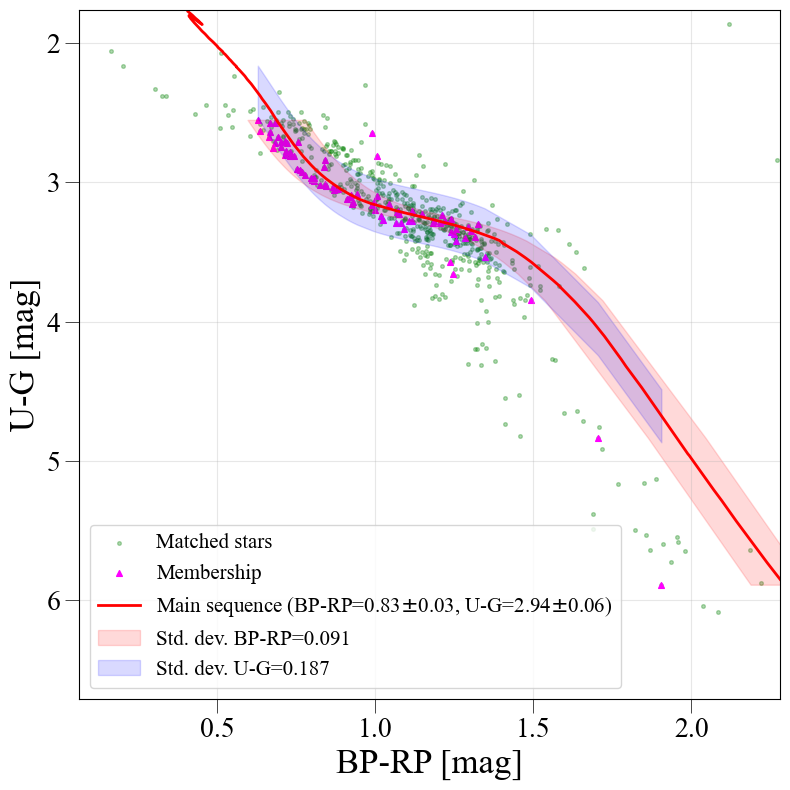
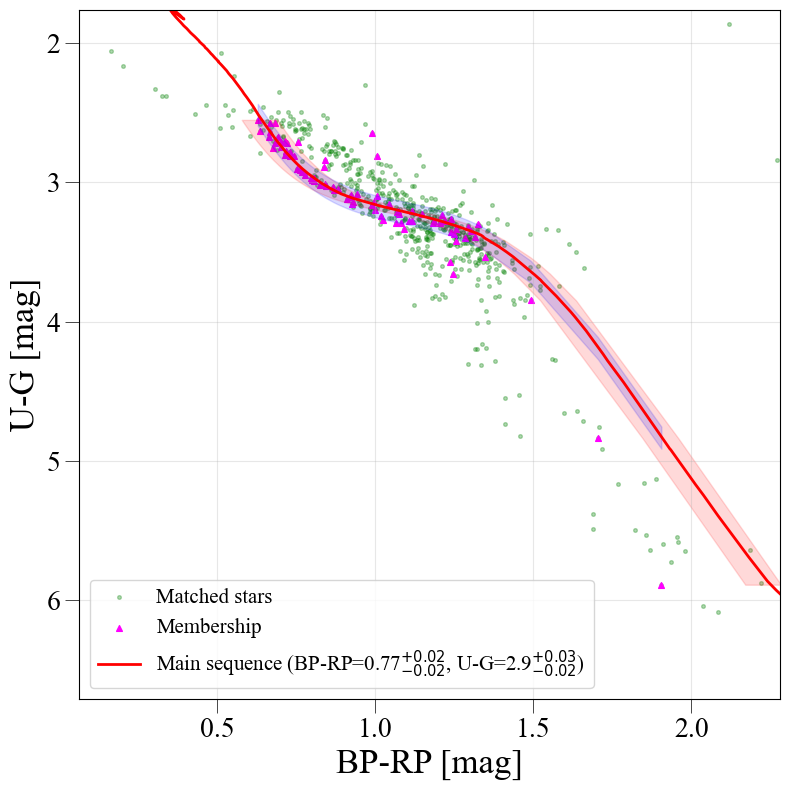
fixed error estimation

Changed region(s): [[0.2734, 0.0608, 1.0, 0.7595], [0.1215, 0.6684, 0.7899, 0.881], [0.2127, 0.0, 0.2734, 0.0608]]

diff --git a/process_data.py b/process_data.py
@@ -405,8 +405,16 @@ def plot_cc(gaia_matched, uv_matched, gaia_filtered, uv_filtered, ms, colour1, c
         poly_y = np.poly1d(coeffs_y)
         ms_fit_y = poly_y(gaia_filtered[colour1])
 
-        residuals_y = uv_filtered[colour2] - ms_fit_y
-        std_dev_y = np.std(residuals_y)
+        residuals_y = ms_fit_y - uv_filtered[colour2]
+        std_dev_y_up_list = []
+        std_dev_y_low_list = []
+        for i in range(residuals_y.size):
+            if residuals_y[i] > 0:
+                std_dev_y_low_list.append(residuals_y[i])
+            else:
+                std_dev_y_up_list.append(residuals_y[i])
+        std_dev_y_up = np.mean(np.abs(std_dev_y_up_list))
+        std_dev_y_low = np.mean(np.abs(std_dev_y_low_list))
 
         x_fitted = np.linspace(min(gaia_filtered[colour1]), max(gaia_filtered[colour1]), 1000)
         y_fitted_curve = np.polyval(coeffs_y, x_fitted)
@@ -415,19 +423,34 @@ def plot_cc(gaia_matched, uv_matched, gaia_filtered, uv_filtered, ms, colour1, c
         interp_func = interp1d(y_fitted_curve, x_fitted, bounds_error=False, fill_value="extrapolate")
         x_estimated = interp_func(uv_filtered[colour2])
 
-        residuals_x = gaia_filtered[colour1] - x_estimated
-        std_dev_x = np.std(residuals_x)
+        residuals_x = x_estimated - gaia_filtered[colour1]
+        std_dev_x_up_list = []
+        std_dev_x_low_list = []
+        for i in range(residuals_x.size):
+            if residuals_x[i] > 0:
+                std_dev_x_low_list.append(residuals_x[i])
+            else:
+                std_dev_x_up_list.append(residuals_x[i])
+        std_dev_x_up = np.mean(np.abs(std_dev_x_up_list))
+        std_dev_x_low = np.mean(np.abs(std_dev_x_low_list))
+
+        print(f"\nStandard deviation of x: {std_dev_x_up} {std_dev_x_low}")
+        print(f"Standard deviation of y: {std_dev_y_up} {std_dev_y_low}")
         
         t_coeff = t.ppf((1 + 0.9973)/2, len(gaia_filtered[colour1])-1)
-        s_x = std_dev_x/np.sqrt(len(gaia_filtered[colour1]))
-        s_y = std_dev_y/np.sqrt(len(uv_filtered[colour2]))
-        u_x = t_coeff*s_x
-        u_y = t_coeff*s_y
-        
-        print(f"\nStandard deviation of x: {std_dev_x}")
-        print(f"Standard deviation of y: {std_dev_y}")
-        print(f"\nUncertainty of x: {u_x}")
-        print(f"Uncertainty of y: {u_y}\n")
+
+        s_x_up = std_dev_x_up/np.sqrt(len(gaia_filtered[colour1]))
+        s_x_low = std_dev_x_low/np.sqrt(len(gaia_filtered[colour1]))
+        s_y_up = std_dev_y_up/np.sqrt(len(uv_filtered[colour2]))
+        s_y_low = std_dev_y_low/np.sqrt(len(uv_filtered[colour2]))
+
+        u_x_up = t_coeff*s_x_up
+        u_x_low = t_coeff*s_x_low
+        u_y_up = t_coeff*s_y_up
+        u_y_low = t_coeff*s_y_low
+
+        print(f"\nUncertainty of x: {u_x_up} {u_x_low}")
+        print(f"Uncertainty of y: {u_y_up} {u_y_low}\n")
 
         # Plot the fitted main sequence
         fig2, ax2 = plt.subplots(figsize=(8, 8))
@@ -446,7 +469,9 @@ def plot_cc(gaia_matched, uv_matched, gaia_filtered, uv_filtered, ms, colour1, c
         ax2.scatter(gaia_matched[colour1], uv_matched[colour2], color='green', s=7, alpha=0.3, label='Matched stars')
         ax2.scatter(gaia_filtered[colour1], uv_filtered[colour2], color='magenta', s=17, marker='^', label='Membership')
             
-        ax2.plot(ms[colour1],ms[colour2], color='red', linewidth=2, label=f'Main sequence ({colour1}={round(x_new, 2)}$\pm${round(u_x, 2)}, {colour2}={round(y_new, 2)}$\pm${round(u_y, 2)})')
+        ax2.plot(ms[colour1], ms[colour2], color='red', linewidth=2, 
+             label=f'Main sequence ({colour1}={round(x_new, 2)}$^{{+{round(u_x_up, 2)}}}_{{-{round(u_x_low, 2)}}}$, {colour2}={round(y_new, 2)}$^{{+{round(u_y_up, 2)}}}_{{-{round(u_y_low, 2)}}}$)'
+            )
         
         # ax2.scatter(gaia_filtered[colour1], ms_fit_y, color='blue', s=5)
         # ax2.scatter(x_estimated, uv_filtered[colour2], color='blue', s=5)
@@ -456,7 +481,7 @@ def plot_cc(gaia_matched, uv_matched, gaia_filtered, uv_filtered, ms, colour1, c
         uv_filtered = uv_filtered.iloc[sorted_indices]
         x_estimated = x_estimated[sorted_indices]
         
-        ax2.fill_betweenx(uv_filtered[colour2], x_estimated - std_dev_x, x_estimated + std_dev_x, color='red', alpha=0.15, label=f'Std. dev. {colour1}={round(std_dev_x, 3)}')
+        ax2.fill_betweenx(uv_filtered[colour2], x_estimated + std_dev_x_up, x_estimated - std_dev_x_low, color='red', alpha=0.15)
 
         # Sort the data by the growing value of x and y
         sorted_indices = gaia_filtered[colour1].argsort()
@@ -464,7 +489,7 @@ def plot_cc(gaia_matched, uv_matched, gaia_filtered, uv_filtered, ms, colour1, c
         gaia_filtered = gaia_filtered.iloc[sorted_indices]
         ms_fit_y = ms_fit_y[sorted_indices]
 
-        ax2.fill_between(gaia_filtered[colour1], ms_fit_y - round(std_dev_y, 2), ms_fit_y + round(std_dev_y, 2), color='blue', alpha=0.15, label=f'Std. dev. {colour2}={round(std_dev_y, 3)}')
+        ax2.fill_between(gaia_filtered[colour1], ms_fit_y + std_dev_y_up, ms_fit_y - std_dev_y_low, color='blue', alpha=0.15)
 
         ax2.plot()
         ax2.legend(loc='lower left', fontsize=15)
